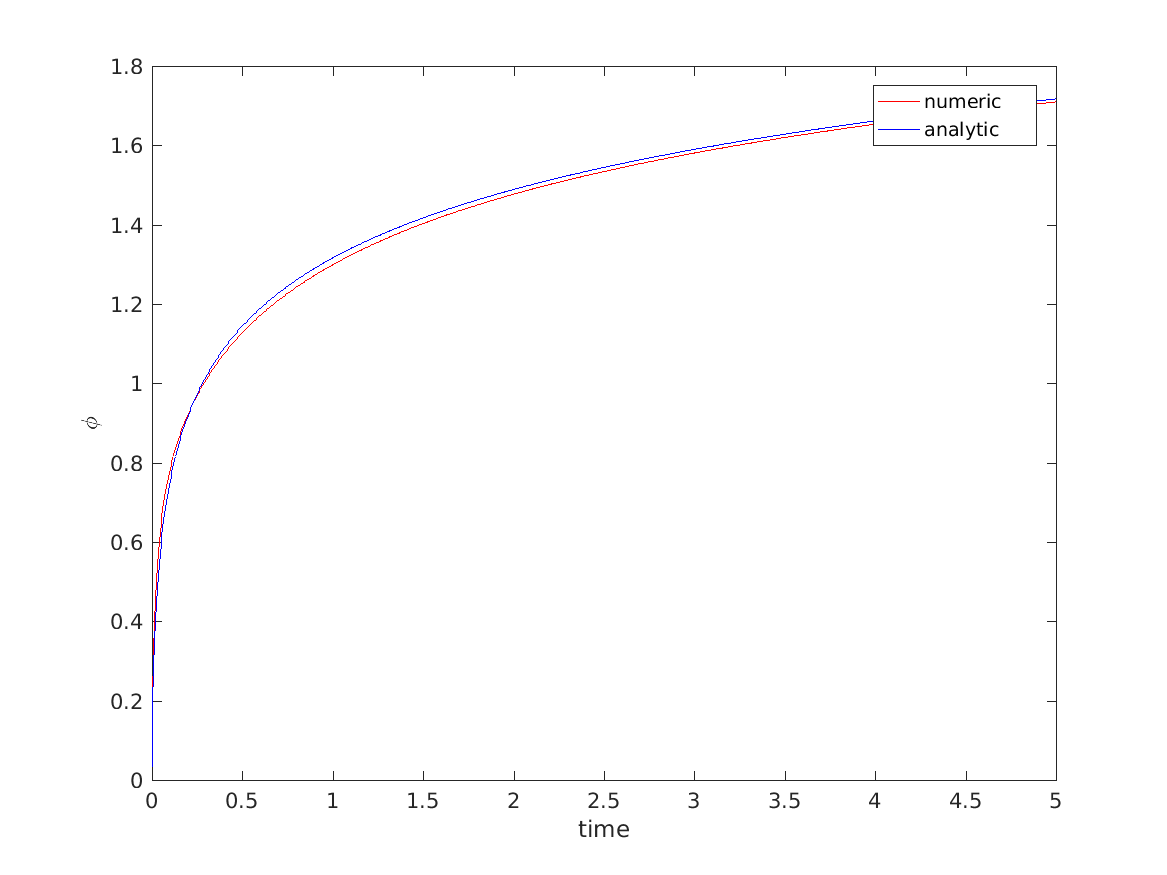
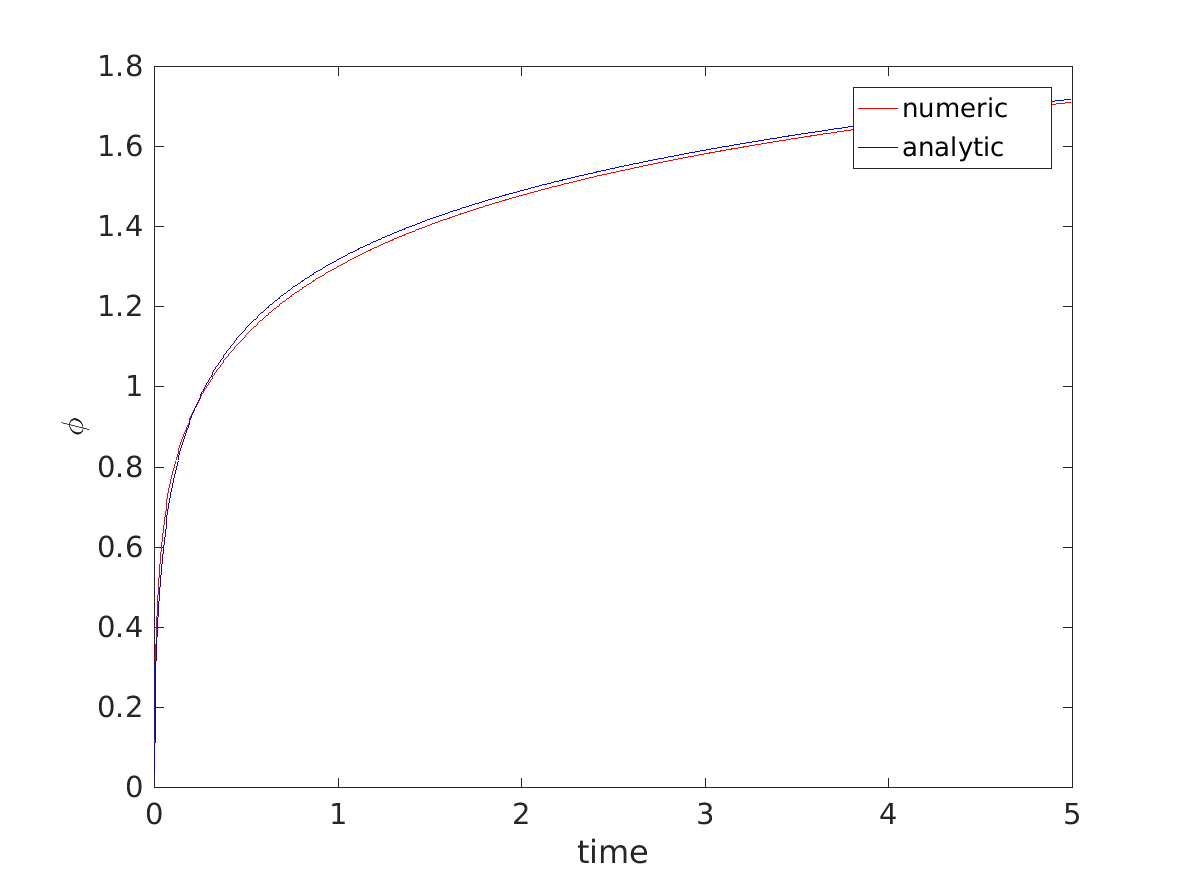
omega plots and eq of state

diff --git a/HW5/hw5.m b/HW5/hw5.m
@@ -21,6 +21,7 @@ legend('exponential','exponential prefactor')
 set(gca,'fontsize',14)
 hold off
 
+%problem 5.4b 
 %define initial conditions
 a0=1;
 phi0=par.beta*10^-3;
@@ -35,6 +36,29 @@ init = [phi0 phidot_0 a0];
 [t f] = ode45(@(t, f) odefun(t, f, par), tspan, init);
 
 
+%calculate the first matter and phi density
+rho_matter = par.rhom*f(:,3).^-3;
+rho_phi = 0.5*f(:,2).^2 +  Vexppre(f(:,1), par)
+
+%calculate the first critical density
+rho_crit = rho_matter + rho_phi
+
+omega_m=rho_matter./rho_crit;
+omega_phi=rho_phi./rho_crit;
+%plot omega matter omega phi;
+g=figure();
+plot(f(:,3), omega_m, 'r');
+hold on;
+plot(f(:,3), omega_phi, 'b');
+hold off;
+xlabel('a');
+ylabel('\Omega');
+legend('\Omega_m','\Omega_{\phi}');
+set(gca, 'fontsize',14);
+saveas(g,'omega_5.4b.png');
+
+
+%plot up the numerical and analytic solutions of phi
 h=figure();
 plot(t,f(:,1), 'r');
 hold on
@@ -47,4 +71,63 @@ hold off
 xlabel('time');
 ylabel('\phi');
 legend('numeric', 'analytic');
+set(gca, 'fontsize',14);
 saveas(h,'phi_t.png');
+
+%problem 5.4c
+%restore V0
+par.V0 = 1;
+
+%try new initial condition for phi0
+phi0 = 33;
+
+%initial conditions
+a0=1;
+V0_0 = Vexppre(phi0,par);
+phidot_0 = sqrt(2*V0_0);
+rhophi_0 = .5*phi0^2 + Vexppre(phi0,par);
+par.rhom=( (1/3)*par.lambda^2 -1 )*rhophi_0;
+
+
+%numerically solve for phi, phidot, a
+tspan = linspace(0,.1,10000);
+init = [phi0 phidot_0 a0];
+
+[t2 f2] = ode45(@(t, f) odefun(t, f, par), tspan, init);
+
+%start calculating the equation of state
+
+rho_phi2 = f2(:,2).^2 /2 + Vexppre(f2(:,1), par);
+pres_phi2 = f2(:,2).^2 /2 - Vexppre(f2(:,1), par);
+
+w= pres_phi2 ./ rho_phi2;
+
+k=figure();
+plot(t2, w);
+xlabel('time');
+ylabel('w');
+saveas(k,'eqofstate.png');
+
+%problem 5.4e
+%calculate the second matter and phi density
+rho_matter2 = par.rhom*f2(:,3).^-3;
+rho_phi2 = 0.5*f2(:,2).^2 +  Vexppre(f2(:,1), par)
+
+%calculate the first critical density
+rho_crit2 = rho_matter2 + rho_phi2
+omega_m2 = rho_matter2 ./ rho_crit2;
+omega_phi2 = rho_phi2 ./ rho_crit2;
+
+i=figure();
+plot(f2(:,3), omega_m2, 'r');
+hold on;
+plot(f2(:,3), omega_phi2, 'b');
+xlabel('a');
+ylabel('\Omega');
+legend('\Omega_m', '\Omega_{\phi}')
+hold off;
+set(gca, 'fontsize',14);
+saveas(i, 'omega_5.4c.png');
+
+
+
